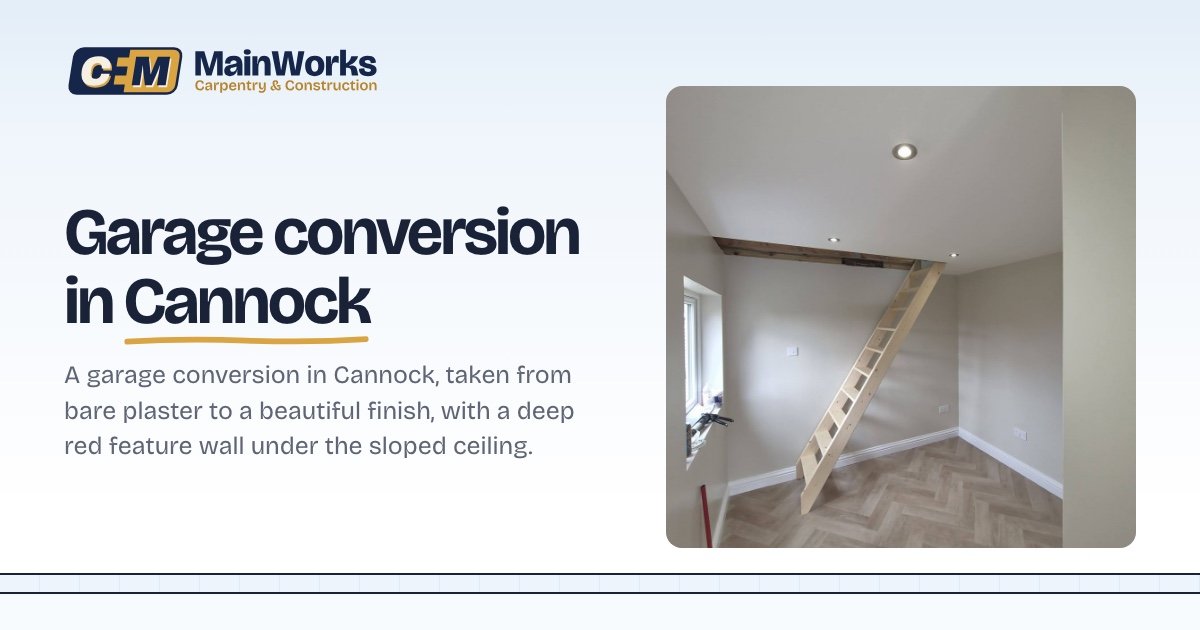
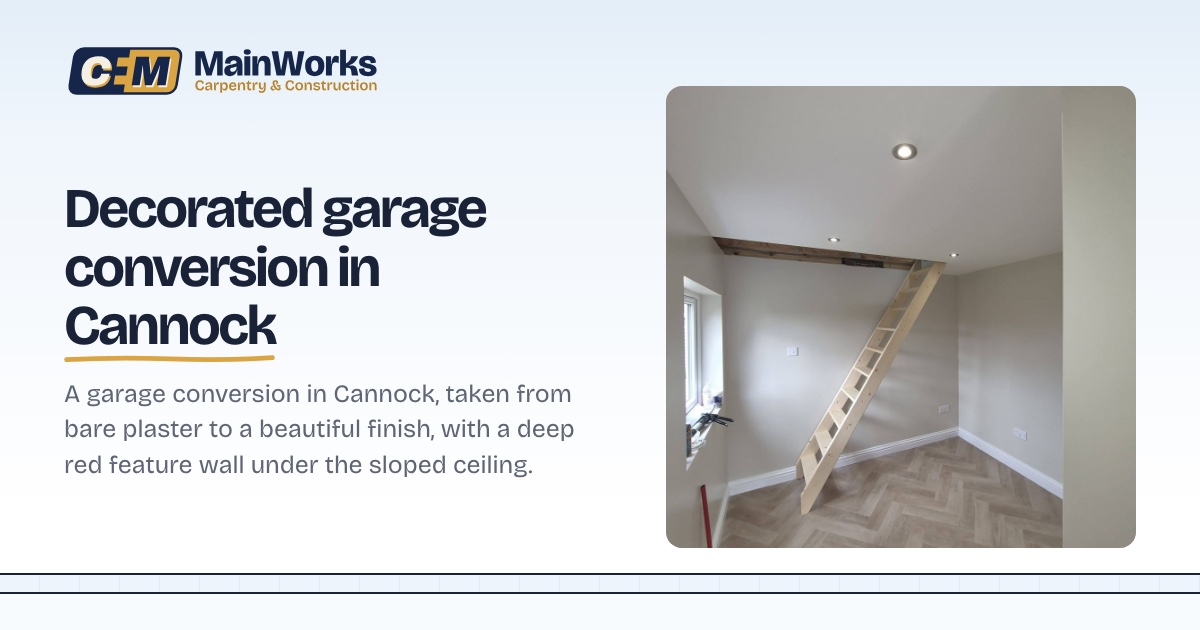
Hero quote card folds to its first step on desktop so the whole street shows; garage job renamed Decorated garage conversion

Changed region(s): [[0.0308, 0.3016, 0.4933, 0.754]]

diff --git a/components/QuoteForm.tsx b/components/QuoteForm.tsx
@@ -4,7 +4,7 @@ import { useEffect, useRef, useState, type FormEvent } from "react";
 import Link from "next/link";
 import { business, jobColor, jobTypes, type JobType } from "@/content/site";
 import { formatPostcode, rules } from "@/lib/validation";
-import { Alert, Camera, ChevronDown, WhatsApp } from "./Icons";
+import { Alert, Arrow, Camera, ChevronDown, WhatsApp } from "./Icons";
 
 /*
   The quote form (John, 10 Nov 2026: Connor works from WhatsApp, not email). Nothing is sent from the
@@ -40,7 +40,12 @@ const whatsappUrl = (text: string) => `${business.whatsapp}?text=${encodeURIComp
 const mailUrl = (to: string, subject: string, text: string) =>
   `mailto:${to}?subject=${encodeURIComponent(subject)}&body=${encodeURIComponent(text)}`;
 
-function QuoteCard({ headingLevel = 2, defaultJob = "", head = true }: { headingLevel?: 2 | 1; defaultJob?: JobType | ""; head?: boolean }) {
+/*
+  `starter` (the homepage hero): the type of work comes first, and on desktop the card starts folded to
+  just that and a "Start my quote" button, so it sits in the sky and the whole street stays in view.
+  Choosing a job, the button, "Ask about…" buttons or a #quote link open the rest (John, 10 Nov 2026).
+*/
+function QuoteCard({ headingLevel = 2, defaultJob = "", head = true, starter = false }: { headingLevel?: 2 | 1; defaultJob?: JobType | ""; head?: boolean; starter?: boolean }) {
   const formRef = useRef<HTMLFormElement>(null);
   const againRef = useRef<HTMLButtonElement>(null);
   const [errors, setErrors] = useState<Partial<Record<Key, string>>>({});
@@ -49,6 +54,8 @@ function QuoteCard({ headingLevel = 2, defaultJob = "", head = true }: { heading
   const [sent, setSent] = useState<Sent | null>(null);
   const [mail, setMail] = useState(""); // joined after the page loads, so it isn't in the page for bots
   const [copied, setCopied] = useState(false);
+  const [started, setStarted] = useState(false);
+  const nameRef = useRef<HTMLInputElement>(null);
 
   useEffect(() => setMail(business.emailParts.join("@")), []);
 
@@ -57,9 +64,12 @@ function QuoteCard({ headingLevel = 2, defaultJob = "", head = true }: { heading
     const fromUrl = new URLSearchParams(window.location.search).get("job");
     const match = jobTypes.find((j) => j.toLowerCase() === fromUrl?.toLowerCase());
     if (match) setJob(match);
-    const on = (e: Event) => setJob((e as CustomEvent<JobType>).detail);
+    if (match || location.hash === "#quote") setStarted(true);
+    const on = (e: Event) => { setJob((e as CustomEvent<JobType>).detail); setStarted(true); };
+    const start = () => setStarted(true);
     window.addEventListener("cm:job", on);
-    return () => window.removeEventListener("cm:job", on);
+    window.addEventListener("cm:open-quote", start);
+    return () => { window.removeEventListener("cm:job", on); window.removeEventListener("cm:open-quote", start); };
   }, []);
 
   const check = (k: Key, value: string) => {
@@ -171,8 +181,75 @@ function QuoteCard({ headingLevel = 2, defaultJob = "", head = true }: { heading
   const err = (k: Key) =>
     errors[k] ? <span className="err" id={`e-${k}`}><Alert />{errors[k]}</span> : null;
 
+  const typeField = (
+    <div className="field">
+      <label htmlFor="q-job">Type of work</label>
+      <div className={`select${job ? " chosen" : ""}`} style={{ "--c": job ? jobColor(job) : "var(--line-2)" } as React.CSSProperties}>
+        <select className="input" id="q-job" name="job" value={job} onChange={(e) => { setJob(e.target.value as JobType | ""); if (e.target.value) setStarted(true); }}>
+          <option value="">Choose one</option>
+          {jobTypes.map((j) => <option key={j} value={j}>{j}</option>)}
+        </select>
+      </div>
+      <span className="bar" />
+    </div>
+  );
+  const nameRow = (
+    <div className="row2">
+      <div className={`field${errors.name ? " invalid" : ""}`}>
+        <label htmlFor="q-name">Name</label>
+        <input ref={nameRef} className="input" id="q-name" type="text" autoComplete="name" {...field("name")} />
+        <span className="bar" />
+        {err("name")}
+      </div>
+      <div className={`field${errors.postcode ? " invalid" : ""}`}>
+        <label htmlFor="q-post">Postcode</label>
+        <input className="input" id="q-post" type="text" autoComplete="postal-code" autoCapitalize="characters" {...field("postcode")} />
+        <span className="bar" />
+        {err("postcode")}
+      </div>
+    </div>
+  );
+  const rest = (
+    <>
+      <button type="button" className={`more${more ? " open" : ""}`} aria-expanded={more} aria-controls="q-more" onClick={() => setMore((m) => !m)}>
+        <span className="more-ico" aria-hidden="true" />
+        {more ? "Hide details" : "Add a few details"}
+        <span className="opt">Optional</span>
+      </button>
+
+      <div className="more-panel" id="q-more" data-open={more} inert={!more}>
+        <div>
+          <div className="field">
+            <label htmlFor="q-msg">About the job</label>
+            <textarea className="input" id="q-msg" name="message" rows={2} maxLength={1500}
+              placeholder="A line or two is plenty, e.g. hang three internal doors" />
+            <span className="bar" />
+          </div>
+        </div>
+      </div>
+
+      {/* photos can't travel through a link, so say plainly where they go */}
+      <p className="photo-tip">
+        <span className="photo-ico" aria-hidden="true"><Camera /></span>
+        <span><strong>Got photos of the job?</strong> Add them in WhatsApp with the paperclip, just before you tap send.</span>
+      </p>
+
+      <button className="send" type="submit">
+        <WhatsApp />Send on WhatsApp
+      </button>
+      <p className="or-email">
+        Or <button type="button" onClick={byEmail}>send it by email</button>
+        {mail && <> to <span className="addr">{mail}</span></>}
+      </p>
+
+      <p className="note" id="q-note">
+        WhatsApp opens with your details written out, ready to send. <Link href="/privacy">Privacy</Link>
+      </p>
+    </>
+  );
+
   return (
-    <div className="quote">
+    <div className={`quote${starter ? " starter" : ""}${starter && !started ? " is-folded" : ""}`}>
       {head && (
         <div className="quote-head">
           <H>Get a free quote</H>
@@ -181,66 +258,17 @@ function QuoteCard({ headingLevel = 2, defaultJob = "", head = true }: { heading
       )}
 
       <form ref={formRef} noValidate onSubmit={onSubmit} aria-describedby="q-note" aria-label="Ask for a free quote">
-        <div className="row2">
-          <div className={`field${errors.name ? " invalid" : ""}`}>
-            <label htmlFor="q-name">Name</label>
-            <input className="input" id="q-name" type="text" autoComplete="name" {...field("name")} />
-            <span className="bar" />
-            {err("name")}
-          </div>
-          <div className={`field${errors.postcode ? " invalid" : ""}`}>
-            <label htmlFor="q-post">Postcode</label>
-            <input className="input" id="q-post" type="text" autoComplete="postal-code" autoCapitalize="characters" {...field("postcode")} />
-            <span className="bar" />
-            {err("postcode")}
-          </div>
-        </div>
-
-        <div className="field">
-          <label htmlFor="q-job">Type of work</label>
-          <div className={`select${job ? " chosen" : ""}`} style={{ "--c": job ? jobColor(job) : "var(--line-2)" } as React.CSSProperties}>
-            <select className="input" id="q-job" name="job" value={job} onChange={(e) => setJob(e.target.value as JobType | "")}>
-              <option value="">Choose one</option>
-              {jobTypes.map((j) => <option key={j} value={j}>{j}</option>)}
-            </select>
-          </div>
-          <span className="bar" />
-        </div>
-
-        <button type="button" className={`more${more ? " open" : ""}`} aria-expanded={more} aria-controls="q-more" onClick={() => setMore((m) => !m)}>
-          <span className="more-ico" aria-hidden="true" />
-          {more ? "Hide details" : "Add a few details"}
-          <span className="opt">Optional</span>
-        </button>
-
-        <div className="more-panel" id="q-more" data-open={more} inert={!more}>
-          <div>
-            <div className="field">
-              <label htmlFor="q-msg">About the job</label>
-              <textarea className="input" id="q-msg" name="message" rows={2} maxLength={1500}
-                placeholder="A line or two is plenty, e.g. hang three internal doors" />
-              <span className="bar" />
-            </div>
-          </div>
-        </div>
-
-        {/* photos can't travel through a link, so say plainly where they go */}
-        <p className="photo-tip">
-          <span className="photo-ico" aria-hidden="true"><Camera /></span>
-          <span><strong>Got photos of the job?</strong> Add them in WhatsApp with the paperclip, just before you tap send.</span>
-        </p>
-
-        <button className="send" type="submit">
-          <WhatsApp />Send on WhatsApp
-        </button>
-        <p className="or-email">
-          Or <button type="button" onClick={byEmail}>send it by email</button>
-          {mail && <> to <span className="addr">{mail}</span></>}
-        </p>
-
-        <p className="note" id="q-note">
-          WhatsApp opens with your details written out, ready to send. <Link href="/privacy">Privacy</Link>
-        </p>
+        {starter ? (
+          <>
+            {typeField}
+            <button type="button" className="send q-start" onClick={() => { setStarted(true); requestAnimationFrame(() => nameRef.current?.focus()); }}>
+              Start my quote<Arrow />
+            </button>
+            <div className="q-rest"><div>{nameRow}{rest}</div></div>
+          </>
+        ) : (
+          <>{nameRow}{typeField}{rest}</>
+        )}
       </form>
     </div>
   );
@@ -249,8 +277,8 @@ function QuoteCard({ headingLevel = 2, defaultJob = "", head = true }: { heading
 /*
   The quote form. With `collapsible` (the homepage hero), phones see a single
   "Get a free quote" button above the fold that slides the form open underneath.
-  Tablets and desktop always show the form. "Ask about…" buttons, the mobile bar
-  and links to #quote open it too.
+  Tablets show the whole form; desktop shows it folded to its first step (see
+  `starter` above). "Ask about…" buttons, the mobile bar and links to #quote open it too.
 */
 export default function QuoteForm({ headingLevel = 2, collapsible = false, defaultJob = "", head = true }: { headingLevel?: 2 | 1; collapsible?: boolean; defaultJob?: JobType | ""; head?: boolean }) {
   const [open, setOpen] = useState(false);
@@ -293,7 +321,7 @@ export default function QuoteForm({ headingLevel = 2, collapsible = false, defau
         <a className="quote-call" href={business.phoneHref}>Or ring me on {business.phoneDisplay}</a>
       </div>
       <div className="quote-panel" id="quote-panel" ref={panel} inert={mobile && !open}>
-        <div><QuoteCard headingLevel={headingLevel} /></div>
+        <div><QuoteCard headingLevel={headingLevel} starter /></div>
       </div>
     </div>
   );

diff --git a/app/concept.css b/app/concept.css
@@ -88,6 +88,17 @@
   .vh-text { max-width: calc(100% - 480px); }
   .vh-form { position: absolute; top: 0; right: var(--gutter); width: min(420px, 34vw); z-index: 3; }
 }
+/* desktop: the hero card starts folded to its first step, so it sits in the sky and the whole street
+   shows; choosing a job or "Start my quote" slides the rest open (QuoteCard `starter`) */
+.q-start { display: none; }
+@media (min-width: 1081px) {
+  .vh .quote.starter .q-rest { display: grid; grid-template-rows: 1fr; transition: grid-template-rows .5s var(--ease); }
+  .vh .quote.starter .q-rest > div { overflow: hidden; min-height: 0; padding: 4px; margin: -4px; }
+  .vh .quote.is-folded .q-rest { grid-template-rows: 0fr; }
+  .vh .quote.is-folded .q-rest > div { visibility: hidden; }
+  .vh .quote.is-folded .q-start { display: flex; margin-top: 4px; }
+  .vh .quote .q-start:hover svg { transform: translateX(4px); }
+}
 .vh-stage { position: relative; width: 100%; height: clamp(260px, 46svh, 440px); margin-top: clamp(4px, 1.2vw, 14px); }
 .vh-stage > svg { display: block; width: 100%; max-width: none; height: 100%; overflow: visible; }
 .vh-meta {

diff --git a/components/Header.tsx b/components/Header.tsx
@@ -74,7 +74,7 @@ export default function Header() {
           <Phone />
           <span className="tel-num">{business.phoneDisplay}</span>
         </a>
-        <Link className="btn btn-gold head-quote" href={quoteHref}>Free quote</Link>
+        <Link className="btn btn-gold head-quote" href={quoteHref} onClick={() => window.dispatchEvent(new Event("cm:open-quote"))}>Free quote</Link>
         <MobileMenu />
       </div>
     </header>

diff --git a/content/projects.ts b/content/projects.ts
@@ -44,7 +44,7 @@ const none = (label: string): Media => ({ src: null, alt: label, label });
 export const projects: Project[] = [
   {
     slug: "garage-conversion-cannock",
-    name: "Garage conversion",
+    name: "Decorated garage conversion",
     section: "decorating",
     place: "Cannock",
     date: "2026-10-01",
